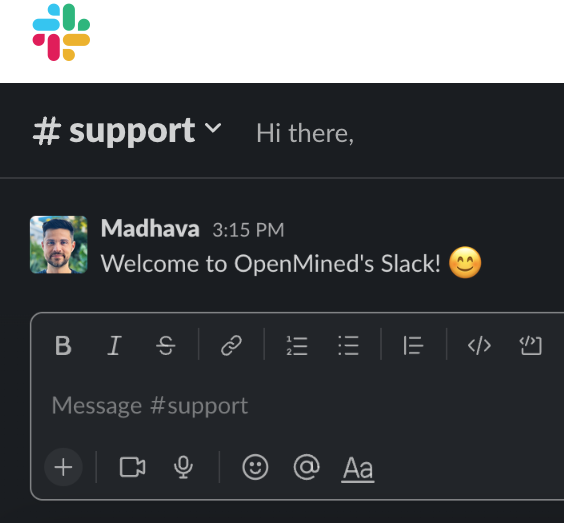
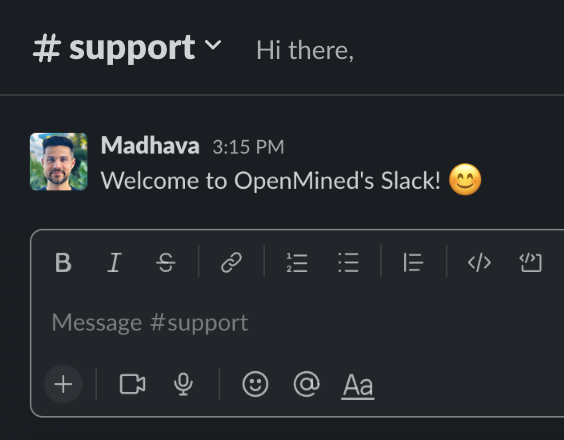
Fixing issue with light mode image titles and no ability to link

diff --git a/README.md b/README.md
@@ -202,7 +202,12 @@ Provides services to a group of `Data Owners` and `Data Scientists`, such as dat
 <th align="center" valign="top">
 <img width="441" height="1">
 <div align="center">
+<img src="packages/syft/docs/img/panel_slack_title_light.png#gh-light-mode-only" alt="" width="100%" align="center" />
+<img src="packages/syft/docs/img/panel_slack_title_dark.png#gh-dark-mode-only" alt="" width="100%" align="center" />
+
 <a href="https://slack.openmined.org/"><img src="packages/syft/docs/img/panel_slack.png" alt="" width="100%" align="center" /></a>
+
+</div>
 </th>
 <th align="center" valign="top">
 <img width="441" height="1">
@@ -224,7 +229,11 @@ Provides services to a group of `Data Owners` and `Data Scientists`, such as dat
 <th align="center" valign="top">
 <img width="441" height="1">
 <div align="center">
+<img src="packages/syft/docs/img/panel_padawan_title_light.png#gh-light-mode-only" alt="" width="100%" align="center" />
+<img src="packages/syft/docs/img/panel_padawan_title_dark.png#gh-dark-mode-only" alt="" width="100%" align="center" />
+
 <a href="https://blog.openmined.org/work-on-ais-most-exciting-frontier-no-phd-required/"><img src="packages/syft/docs/img/panel_padawan.png" alt="" width="100%" align="center"></a>
+
 </div>
 </th>
 </tr>
